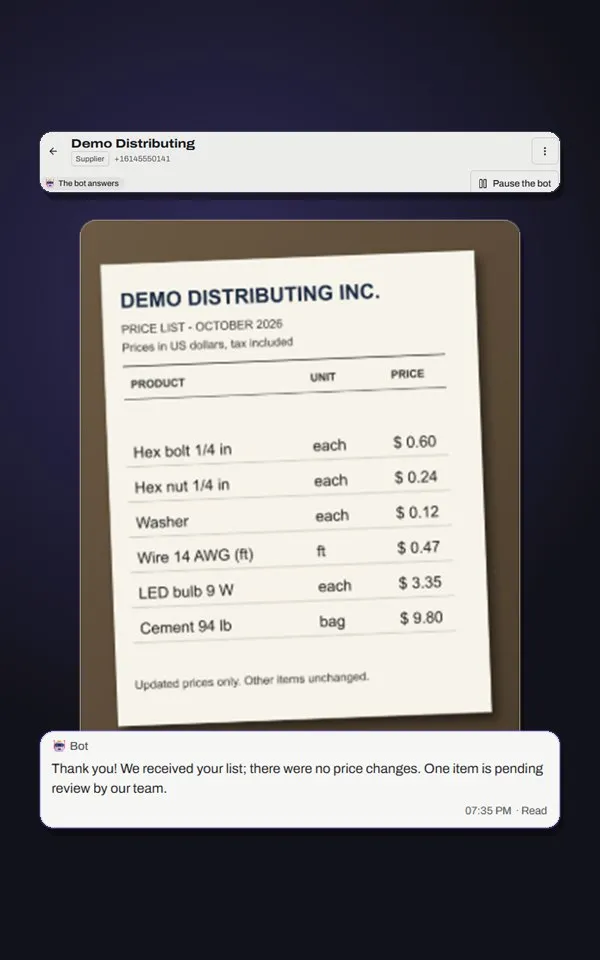
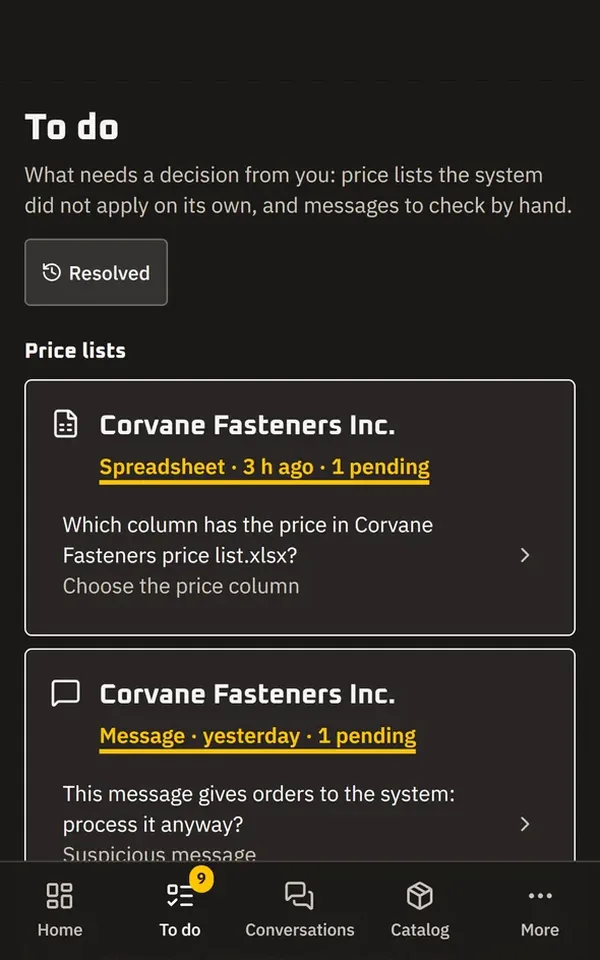
Update SmartOps Agent to 0.19.0: 2,100+ tests, new panel image, live demo
- About and project card both say 2,100+ tests (they said 1,900+ and 2,000+)
- Description mentions the bilingual panel, one-click decisions and the live demo
- Replace the mutation-score highlight with E2E on desktop, Android and iPhone
- Add Docker to the stack; "Demo" button reads "Live demo" / "Demo en vivo"
- Card image: the To do screen of the new panel identity (khaki theme, Oxanium)

Claude-Session: https://claude.ai/code/session_013vueHwjHTwRD4f2SZVfDq6

diff --git a/index.html b/index.html
@@ -967,7 +967,7 @@
             <span data-en="I'm Ignacio Sánchez Greppi, a Full Stack Developer in Montevideo specialized in web development and AI automation. I work with Node.js, TypeScript, React and Next.js, choosing the tools that best fit each project." data-es="Soy Ignacio Sánchez Greppi, Full Stack Developer en Montevideo, especializado en desarrollo web y automatización con IA. Trabajo con Node.js, TypeScript, React y Next.js, y elijo las herramientas que mejor se adaptan a cada proyecto.">Soy Ignacio Sánchez Greppi, Full Stack Developer en Montevideo, especializado en desarrollo web y automatización con IA. Trabajo con Node.js, TypeScript, React y Next.js, y elijo las herramientas que mejor se adaptan a cada proyecto.</span>
           </p>
           <p class="about-text">
-            <span data-en="Since 2023 I have built for clients like Golden Pets and Pura Vida Huertas, and today I develop WhatsApp and n8n automations through Workana. My most complete project is SmartOps Agent, an AI agent backed by more than 1,900 automated tests and CI/CD." data-es="Desde 2023 desarrollo para clientes como Golden Pets y Pura Vida Huertas, y hoy construyo automatizaciones con WhatsApp y n8n a través de Workana. Mi proyecto más completo es SmartOps Agent, un agente de IA respaldado por más de 1.900 tests automatizados y CI/CD.">Desde 2023 desarrollo para clientes como Golden Pets y Pura Vida Huertas, y hoy construyo automatizaciones con WhatsApp y n8n a través de Workana. Mi proyecto más completo es SmartOps Agent, un agente de IA respaldado por más de 1.900 tests automatizados y CI/CD.</span>
+            <span data-en="Since 2023 I have built for clients like Golden Pets and Pura Vida Huertas, and today I develop WhatsApp and n8n automations through Workana. My most complete project is SmartOps Agent, an AI agent backed by more than 2,100 automated tests and CI/CD." data-es="Desde 2023 desarrollo para clientes como Golden Pets y Pura Vida Huertas, y hoy construyo automatizaciones con WhatsApp y n8n a través de Workana. Mi proyecto más completo es SmartOps Agent, un agente de IA respaldado por más de 2.100 tests automatizados y CI/CD.">Desde 2023 desarrollo para clientes como Golden Pets y Pura Vida Huertas, y hoy construyo automatizaciones con WhatsApp y n8n a través de Workana. Mi proyecto más completo es SmartOps Agent, un agente de IA respaldado por más de 2.100 tests automatizados y CI/CD.</span>
           </p>
           <div class="about-tags">
             <span class="tag">Full Stack</span>
@@ -1102,21 +1102,21 @@
       <div class="projects-grid reveal" id="projects-grid">
         <div class="project-card featured-main" data-category="fullstack">
           <div class="project-img" style="position:relative;overflow:hidden;">
-            <img src="img/smartops-agent.webp" width="600" height="960" loading="lazy" decoding="async" alt="Conversación en SmartOps Agent: lista de precios de un proveedor y respuesta del bot" data-alt-en="SmartOps Agent conversation: a supplier price list and the bot reply" data-alt-es="Conversación en SmartOps Agent: lista de precios de un proveedor y respuesta del bot" style="width:100%;height:100%;object-fit:cover;object-position:center 35%;transition:transform 0.4s;">
+            <img src="img/smartops-agent.webp" width="600" height="960" loading="lazy" decoding="async" alt="Panel de SmartOps Agent en un iPhone: la lista de pendientes con las decisiones de cada proveedor" data-alt-en="SmartOps Agent panel on an iPhone: the To do list with each supplier's decisions" data-alt-es="Panel de SmartOps Agent en un iPhone: la lista de pendientes con las decisiones de cada proveedor" style="width:100%;height:100%;object-fit:cover;object-position:center top;transition:transform 0.4s;">
             <span style="position:absolute;top:0.75rem;left:0.75rem;background:rgba(0,0,0,0.65);border:1px solid rgba(255,255,255,0.12);border-radius:100px;padding:0.2rem 0.65rem;font-size:0.7rem;color:#22c55e;backdrop-filter:blur(8px);">Full Stack</span>
           </div>
           <div class="project-body">
             <h3 class="project-name" data-featured="true" data-order="1">SmartOps Agent</h3>
-            <div class="project-desc" data-en="AI operations agent for businesses on WhatsApp. Reads price lists, orders and voice notes in any format, keeps the catalog up to date and routes doubts to a person." data-es="Agente de operaciones con IA para negocios en WhatsApp. Lee listas de precios, pedidos y notas de voz en cualquier formato, mantiene el catálogo actualizado y deriva dudas a una persona.">Agente de operaciones con IA para negocios en WhatsApp. Lee listas de precios, pedidos y notas de voz en cualquier formato, mantiene el catálogo actualizado y deriva dudas a una persona.</div>
+            <div class="project-desc" data-en="AI operations agent for businesses on WhatsApp. Reads price lists, orders and voice notes in any format, keeps the catalog up to date and routes doubts to a person. Includes a bilingual panel with one-click decisions and chats marked when they wait for a reply, plus a live public demo." data-es="Agente de operaciones con IA para negocios en WhatsApp. Lee listas de precios, pedidos y notas de voz en cualquier formato, mantiene el catálogo actualizado y deriva dudas a una persona. Incluye un panel bilingüe con decisiones de un clic y chats marcados cuando esperan respuesta, y una demo pública en vivo.">Agente de operaciones con IA para negocios en WhatsApp. Lee listas de precios, pedidos y notas de voz en cualquier formato, mantiene el catálogo actualizado y deriva dudas a una persona. Incluye un panel bilingüe con decisiones de un clic y chats marcados cuando esperan respuesta, y una demo pública en vivo.</div>
             <div class="project-highlights">
-              <span class="hl"><strong data-en="2,000+" data-es="2.000+">2.000+</strong> <em data-en="automated tests" data-es="tests automatizados">tests automatizados</em></span>
+              <span class="hl"><strong data-en="2,100+" data-es="2.100+">2.100+</strong> <em data-en="automated tests" data-es="tests automatizados">tests automatizados</em></span>
               <span class="hl"><strong>8/8</strong> <em data-en="AI security evals" data-es="pruebas de seguridad IA">pruebas de seguridad IA</em></span>
-              <span class="hl"><strong>80%</strong> <em data-en="mutation score" data-es="mutation score">mutation score</em></span>
+              <span class="hl"><strong>E2E</strong> <em data-en="desktop, Android and iPhone" data-es="desktop, Android y iPhone">desktop, Android y iPhone</em></span>
             </div>
-            <div class="project-stack"><span>Node.js</span><span>TypeScript</span><span>Express</span><span>Next.js 15</span><span>PostgreSQL</span><span>Claude AI</span><span>n8n</span><span>WhatsApp API</span></div>
+            <div class="project-stack"><span>Node.js</span><span>TypeScript</span><span>Express</span><span>Next.js 15</span><span>PostgreSQL</span><span>Claude AI</span><span>n8n</span><span>WhatsApp API</span><span>Docker</span></div>
             <div class="project-links">
               <a href="https://github.com/sanchezign/smartops-agent" target="_blank" class="link-demo" style="flex:none;padding:0.5rem 1rem;"><svg fill="currentColor" viewBox="0 0 24 24" width="14" height="14"><path d="M12 2C6.477 2 2 6.484 2 12.017c0 4.425 2.865 8.18 6.839 9.504.5.092.682-.217.682-.483 0-.237-.008-.868-.013-1.703-2.782.605-3.369-1.343-3.369-1.343-.454-1.158-1.11-1.466-1.11-1.466-.908-.62.069-.608.069-.608 1.003.07 1.531 1.032 1.531 1.032.892 1.53 2.341 1.088 2.91.832.092-.647.35-1.088.636-1.338-2.22-.253-4.555-1.113-4.555-4.951 0-1.093.39-1.988 1.029-2.688-.103-.253-.446-1.272.098-2.65 0 0 .84-.27 2.75 1.026A9.564 9.564 0 0112 6.844c.85.004 1.705.115 2.504.337 1.909-1.296 2.747-1.027 2.747-1.027.546 1.379.202 2.398.1 2.651.64.7 1.028 1.595 1.028 2.688 0 3.848-2.339 4.695-4.566 4.943.359.309.678.92.678 1.855 0 1.338-.012 2.419-.012 2.747 0 .268.18.58.688.482A10.019 10.019 0 0022 12.017C22 6.484 17.522 2 12 2z"/></svg> Ver c&#243;digo</a>
-              <a href="https://smartops-demo.duckdns.org" target="_blank" class="link-code" style="flex:none;padding:0.5rem 1rem;"><svg fill="none" stroke="currentColor" stroke-width="2" viewBox="0 0 24 24" width="14" height="14"><path d="M18 13v6a2 2 0 01-2 2H5a2 2 0 01-2-2V8a2 2 0 012-2h6M15 3h6v6M10 14L21 3"/></svg> Demo</a>
+              <a href="https://smartops-demo.duckdns.org" target="_blank" class="link-code" style="flex:none;padding:0.5rem 1rem;"><svg fill="none" stroke="currentColor" stroke-width="2" viewBox="0 0 24 24" width="14" height="14"><path d="M18 13v6a2 2 0 01-2 2H5a2 2 0 01-2-2V8a2 2 0 012-2h6M15 3h6v6M10 14L21 3"/></svg> <span data-en="Live demo" data-es="Demo en vivo">Demo en vivo</span></a>
             </div>
           </div>
         </div>
